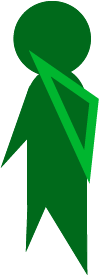
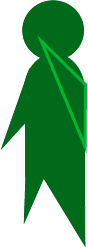
basic layout for how it works page

diff --git a/app/assets/stylesheets/_campaigns.css.scss b/app/assets/stylesheets/_campaigns.css.scss
@@ -1,8 +1,34 @@
 .campaign {
 		padding-top: 80px;
 		color: darken($green, 15%);
+	.row {
+		position: relative;
+	}
 	.icons {
 		font-size: 60px;
+	}
+	.stick-figure {
+		height: 140px;
+		margin-left: 45%;
+		margin-top: 220px;
+	}
+	.step-1 {
+		left: 20%;
+		top: 25vh;
+		position: absolute;
+	}
+	.step-4 {
+		right: 20%;
+		top: 25vh;
+		position: absolute;
+	}
+	.step-2 {
+		position: absolute;
+		left: 35%;
+	}
+		.step-3 {
+		position: absolute;
+		right: 35%;
 	}
 	
 	.step-item {
@@ -13,6 +39,9 @@
 		max-width:120px;
 		.icons {
 			font-size: 32px;
+		}
+		&.center {
+			margin: 0 auto;
 		}
 
 	}

diff --git a/app/assets/stylesheets/_events.css.scss b/app/assets/stylesheets/_events.css.scss
@@ -21,6 +21,9 @@
 .fleft {
 	float: left;
 }
+.fright {
+	float: right;
+}
 .little-p {
 	height: 39px;
 	margin-top: -7px;
